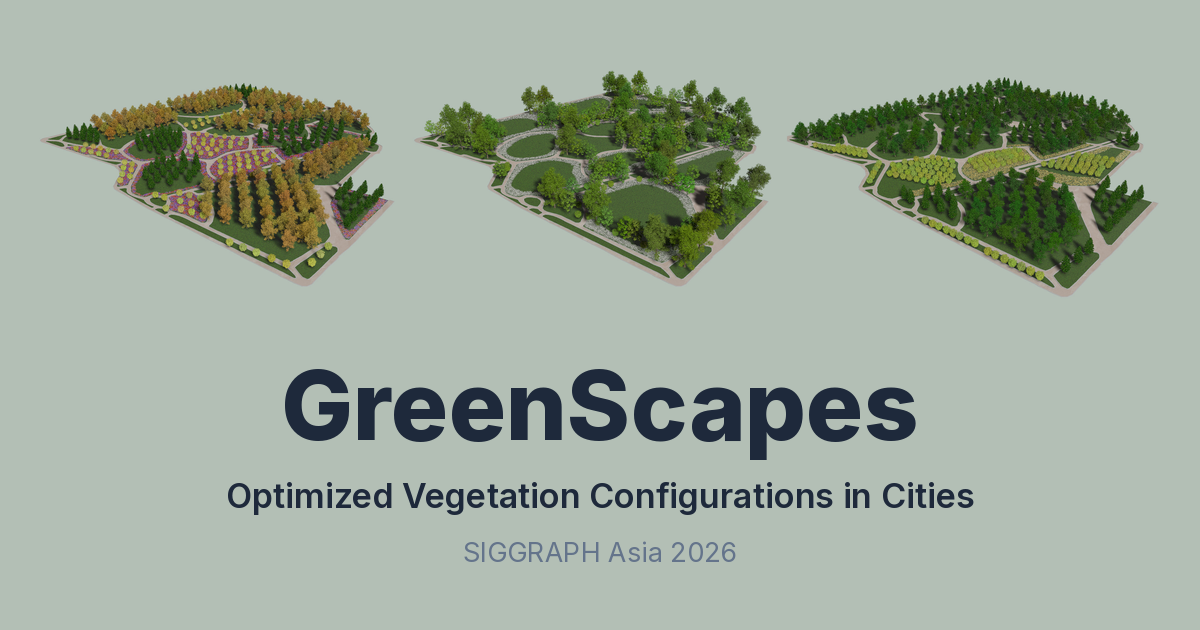
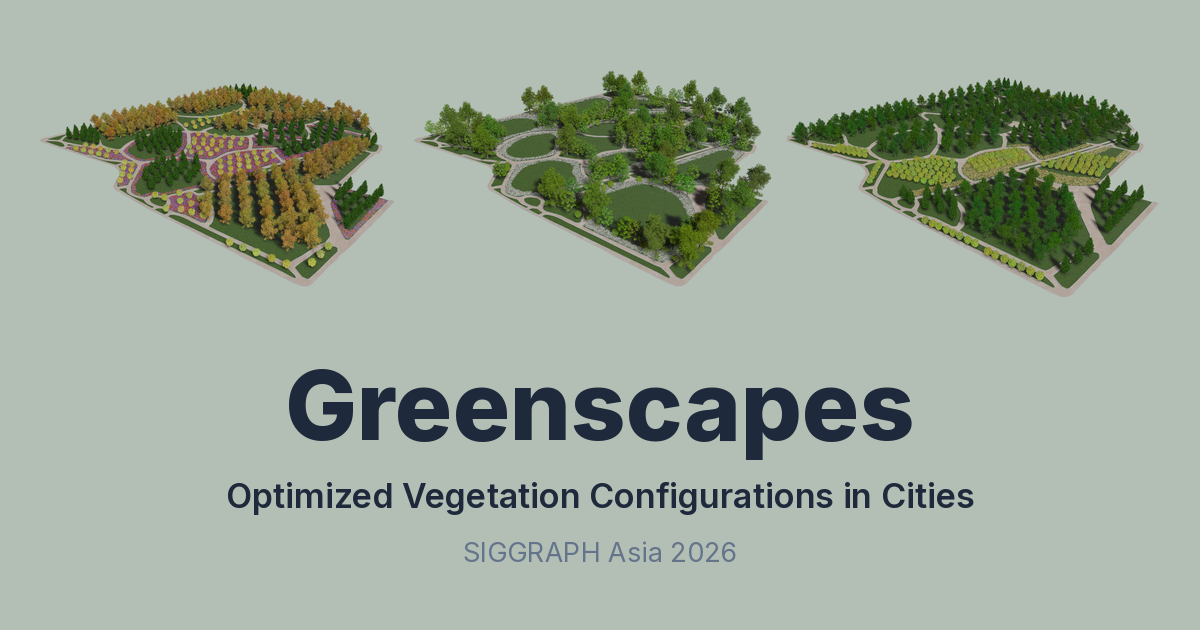
Title spelled as in the paper: Greenscapes

Changed region(s): [[0.2158, 0.573, 0.7708, 0.7238]]

diff --git a/index.html b/index.html
@@ -8,7 +8,7 @@
   <meta name="google-site-verification" content="GE9TQf7m1Guunvs5Gy-MVsKNzwUDHX0tDn6GJhCdjOM" />
 
   <!-- Primary Meta Tags -->
-  <meta name="title" content="GreenScapes: Optimized Vegetation Configurations in Cities">
+  <meta name="title" content="Greenscapes: Optimized Vegetation Configurations in Cities">
   <meta name="description" content="A novel method for configuring vegetation in 3D urban scenes using a conditioned VLM and CMA-ES optimization to balance functional and aesthetic objectives.">
   <meta name="keywords" content="vegetation placement, urban landscape, 3D scene generation, vision-language model, CMA-ES, urban planning, procedural generation, microclimate, computer graphics">
   <meta name="author" content="Patryk Bartkowiak, Marcin Marlewski, Paweł Wójcik, Jae Joong Lee, Dominik L. Michels, Bedrich Benes, Sören Pirk, Wojciech Palubicki">
@@ -18,13 +18,13 @@
   <!-- Open Graph / Facebook -->
   <meta property="og:type" content="article">
   <meta property="og:site_name" content="Adam Mickiewicz University">
-  <meta property="og:title" content="GreenScapes: Optimized Vegetation Configurations in Cities">
+  <meta property="og:title" content="Greenscapes: Optimized Vegetation Configurations in Cities">
   <meta property="og:description" content="A novel method for configuring vegetation in 3D urban scenes using a conditioned VLM and CMA-ES optimization to balance functional and aesthetic objectives.">
   <meta property="og:url" content="https://greenscapes-project.github.io/">
   <meta property="og:image" content="https://greenscapes-project.github.io/static/images/social_preview.png">
   <meta property="og:image:width" content="1200">
   <meta property="og:image:height" content="630">
-  <meta property="og:image:alt" content="GreenScapes: Optimized Vegetation Configurations in Cities">
+  <meta property="og:image:alt" content="Greenscapes: Optimized Vegetation Configurations in Cities">
   <meta property="article:published_time" content="2026-01-01T00:00:00.000Z">
   <meta property="article:author" content="Patryk Bartkowiak">
   <meta property="article:section" content="Research">
@@ -33,13 +33,13 @@
 
   <!-- Twitter -->
   <meta name="twitter:card" content="summary_large_image">
-  <meta name="twitter:title" content="GreenScapes: Optimized Vegetation Configurations in Cities">
+  <meta name="twitter:title" content="Greenscapes: Optimized Vegetation Configurations in Cities">
   <meta name="twitter:description" content="A novel method for configuring vegetation in 3D urban scenes using a conditioned VLM and CMA-ES optimization to balance functional and aesthetic objectives.">
   <meta name="twitter:image" content="https://greenscapes-project.github.io/static/images/social_preview.png">
-  <meta name="twitter:image:alt" content="GreenScapes: Optimized Vegetation Configurations in Cities">
+  <meta name="twitter:image:alt" content="Greenscapes: Optimized Vegetation Configurations in Cities">
 
   <!-- Academic/Research Specific -->
-  <meta name="citation_title" content="GreenScapes: Optimized Vegetation Configurations in Cities">
+  <meta name="citation_title" content="Greenscapes: Optimized Vegetation Configurations in Cities">
   <meta name="citation_author" content="Bartkowiak, Patryk">
   <meta name="citation_author" content="Marlewski, Marcin">
   <meta name="citation_author" content="Wójcik, Paweł">
@@ -64,7 +64,7 @@
   <link rel="preconnect" href="https://cdn.jsdelivr.net">
 
 
-  <title>GreenScapes: Optimized Vegetation Configurations in Cities</title>
+  <title>Greenscapes: Optimized Vegetation Configurations in Cities</title>
   
   <!-- Favicon and App Icons -->
   <link rel="icon" type="image/x-icon" href="static/images/favicon.ico">
@@ -104,7 +104,7 @@
   {
     "@context": "https://schema.org",
     "@type": "ScholarlyArticle",
-    "headline": "GreenScapes: Optimized Vegetation Configurations in Cities",
+    "headline": "Greenscapes: Optimized Vegetation Configurations in Cities",
     "description": "A novel method for configuring vegetation in 3D urban scenes using a conditioned VLM and CMA-ES optimization to balance functional and aesthetic objectives.",
     "author": [
       { "@type": "Person", "name": "Patryk Bartkowiak", "affiliation": { "@type": "Organization", "name": "Adam Mickiewicz University" } },
@@ -143,7 +143,7 @@
   {
     "@context": "https://schema.org",
     "@type": "Organization",
-    "name": "GreenScapes",
+    "name": "Greenscapes",
     "url": "https://greenscapes-project.github.io/",
     "logo": "https://greenscapes-project.github.io/static/images/favicon.ico",
     "sameAs": [
@@ -210,7 +210,7 @@
       <div class="container is-max-desktop">
         <div class="columns is-centered">
           <div class="column has-text-centered">
-            <h1 class="title is-1 publication-title">GreenScapes: Optimized Vegetation Configurations in Cities</h1>
+            <h1 class="title is-1 publication-title">Greenscapes: Optimized Vegetation Configurations in Cities</h1>
             <div class="is-size-5 publication-authors">
               <span class="author-block"><a href="https://patrykbart.faculty.wmi.amu.edu.pl/" target="_blank">Patryk Bartkowiak</a><sup>1</sup>,</span>
               <span class="author-block">Marcin Marlewski<sup>1</sup>,</span>
@@ -309,7 +309,7 @@
     <div class="columns is-centered has-text-centered">
       <div class="column is-full">
         <h2 class="title is-3">Method</h2>
-        <img src="static/images/method_overview.jpg" alt="Overview of the GreenScapes pipeline for prompt-driven park vegetation design." style="width: 100%; height: auto;">
+        <img src="static/images/method_overview.jpg" alt="Overview of the Greenscapes pipeline for prompt-driven park vegetation design." style="width: 100%; height: auto;">
         <div class="content has-text-justified" style="margin-top: 1rem;">
           <p>
             <strong>Overview of our pipeline for prompt-driven park vegetation design.</strong>
@@ -380,7 +380,7 @@
       <div class="column is-full">
         <h2 class="title is-3">Video Presentation</h2>
         <div class="publication-video">
-          <iframe src="https://www.youtube.com/embed/93ximIbff4M" title="GreenScapes: Optimized Vegetation Configurations in Cities" frameborder="0" loading="lazy" allow="accelerometer; autoplay; clipboard-write; encrypted-media; gyroscope; picture-in-picture; web-share" referrerpolicy="strict-origin-when-cross-origin" allowfullscreen></iframe>
+          <iframe src="https://www.youtube.com/embed/93ximIbff4M" title="Greenscapes: Optimized Vegetation Configurations in Cities" frameborder="0" loading="lazy" allow="accelerometer; autoplay; clipboard-write; encrypted-media; gyroscope; picture-in-picture; web-share" referrerpolicy="strict-origin-when-cross-origin" allowfullscreen></iframe>
         </div>
       </div>
     </div>
@@ -441,7 +441,7 @@
         </button>
       </div>
       <pre id="bibtex-code"><code>@inproceedings{GreenScapes2026,
-  title={GreenScapes: Optimized Vegetation Configurations in Cities},
+  title={Greenscapes: Optimized Vegetation Configurations in Cities},
   author={Bartkowiak, Patryk and Marlewski, Marcin and W{\'o}jcik, Pawe{\l} and Lee, Jae Joong and Michels, Dominik L. and Benes, Bedrich and Pirk, S{\"o}ren and Palubicki, Wojciech},
   booktitle={ACM SIGGRAPH Asia 2026 Conference Papers},
   year={2026}

diff --git a/README.md b/README.md
@@ -1,4 +1,4 @@
-# GreenScapes: Optimized Vegetation Configurations in Cities
+# Greenscapes: Optimized Vegetation Configurations in Cities
 
 Project page: <https://greenscapes-project.github.io/>
 
